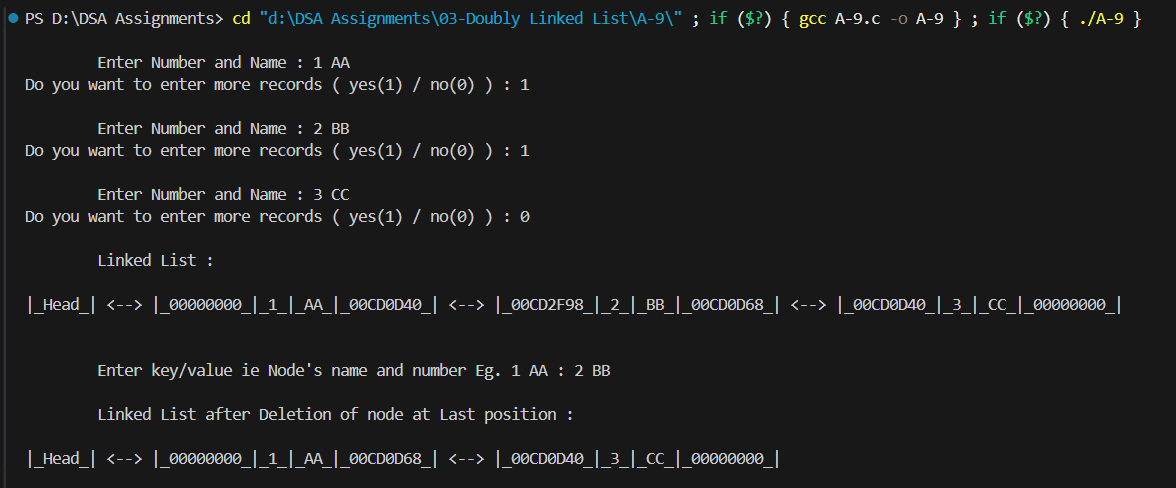
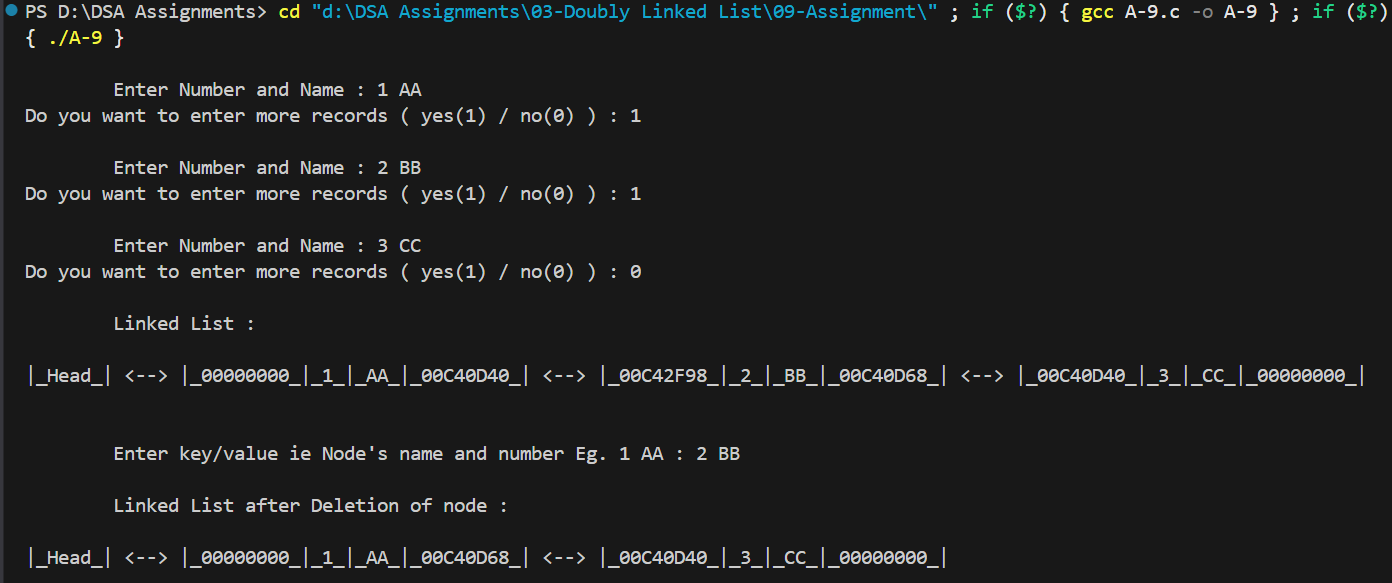
Doubly Linked List Assignment No. 9

diff --git a/03-Doubly Linked List/09-Assignment/A-9.c b/03-Doubly Linked List/09-Assignment/A-9.c
@@ -1,5 +1,5 @@
 /*
-    A-7 ->  write a c program to Create a doubly linked list, accept a key, and delete the node which contains the key element. 
+    A-9 ->  write a c program to Create a doubly linked list, accept a key, and delete the node which contains the key element. 
 */
 
 /* 
@@ -34,7 +34,7 @@ int main() {
 
     head = deleteKey(head);
 
-    printf("\n\tLinked List after Deletion of node at Last position : ");
+    printf("\n\tLinked List after Deletion of node : ");
     displayDLL(head);
     
     freeDLL(head);
@@ -147,12 +147,12 @@ void freeDLL(DLLNode *f) {
 
                     Linked List : 
 
-            |_Head_| <--> |_00000000_|_1_|_AA_|_00CD0D40_| <--> |_00CD2F98_|_2_|_BB_|_00CD0D68_| <--> |_00CD0D40_|_3_|_CC_|_00000000_| 
+            |_Head_| <--> |_00000000_|_1_|_AA_|_00C40D40_| <--> |_00C42F98_|_2_|_BB_|_00C40D68_| <--> |_00C40D40_|_3_|_CC_|_00000000_| 
 
 
                     Enter key/value ie Node's name and number Eg. 1 AA : 2 BB
 
-                    Linked List after Deletion of node at Last position : 
+                    Linked List after Deletion of node : 
 
-            |_Head_| <--> |_00000000_|_1_|_AA_|_00CD0D68_| <--> |_00CD0D40_|_3_|_CC_|_00000000_| 
+            |_Head_| <--> |_00000000_|_1_|_AA_|_00C40D68_| <--> |_00C40D40_|_3_|_CC_|_00000000_|
 */
